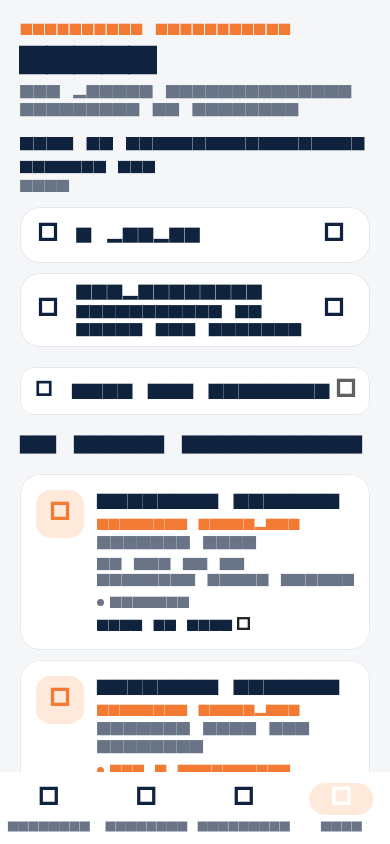
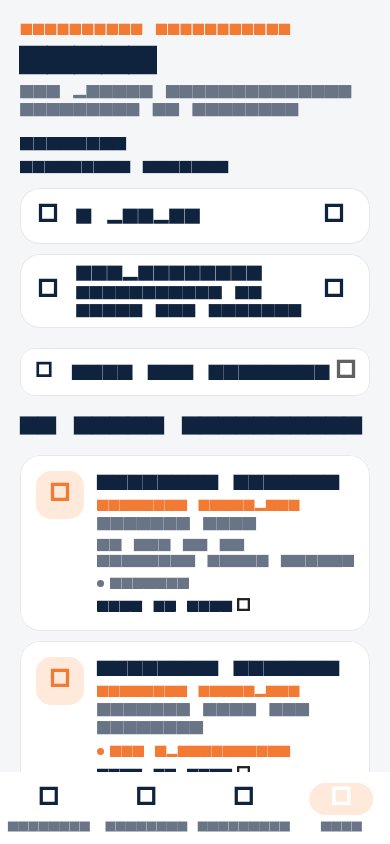
chore(branding): unify MobSante product identity

diff --git a/test/about_screen_test.dart b/test/about_screen_test.dart
@@ -16,7 +16,7 @@ void main() {
     final index = File('web/index.html').readAsStringSync();
     final pubspec = File('pubspec.yaml').readAsStringSync();
 
-    expect(manifest['name'], 'InterfaceRecup33 — MobSanté');
+    expect(manifest['name'], 'MobSanté — Incendies Gironde');
     expect(manifest['short_name'], 'MobSanté');
     expect(index, contains('name="application-name" content="MobSanté"'));
     expect(
@@ -24,7 +24,16 @@ void main() {
       contains('name="apple-mobile-web-app-title" content="MobSanté"'),
     );
     expect(index, isNot(contains('content="Recup33"')));
+    expect(index, contains('<title>MobSanté — Incendies Gironde</title>'));
     expect(pubspec, contains('version: ${AppIdentity.version}'));
+  });
+
+  testWidgets('Flutter application exposes the MobSanté title', (tester) async {
+    await tester.pumpWidget(const FireCoordinationApp());
+
+    final application = tester.widget<MaterialApp>(find.byType(MaterialApp));
+    expect(application.title, AppIdentity.productName);
+    expect(application.title, isNot(AppIdentity.technicalName));
   });
 
   testWidgets('About content is factual, provisional and responsive', (
@@ -52,7 +61,7 @@ void main() {
     expect(find.text('Version ${AppIdentity.version}'), findsOneWidget);
     expect(find.text('Confidentialité'), findsOneWidget);
     expect(find.text('Mentions légales'), findsOneWidget);
-    expect(find.textContaining('MB — VP URPS MK'), findsOneWidget);
+    expect(find.text(AppIdentity.designerCredit), findsOneWidget);
     expect(
       find.textContaining('application officielle de l’URPS'),
       findsNothing,
@@ -75,6 +84,35 @@ void main() {
     expect(credit.style?.fontSize, 11);
     expect(credit.style?.fontWeight, FontWeight.w400);
     expect(tester.takeException(), isNull);
+  });
+
+  test('active identity surfaces contain no obsolete visible branding', () {
+    final activeFiles = [
+      'lib/screens/splash_screen.dart',
+      'lib/app.dart',
+      'lib/screens/places_screen.dart',
+      'lib/screens/about_screen.dart',
+      'web/index.html',
+      'web/manifest.json',
+    ].map((path) => File(path).readAsStringSync()).join('\n');
+
+    for (final obsolete in [
+      'InterfaceRecup33',
+      'Interface Récup',
+      'Interface Recup',
+      'Recup33',
+      'MobSante',
+      'Mob Santé',
+      'Version RC1',
+      'MB — VP URPS MK NA',
+    ]) {
+      expect(activeFiles, isNot(contains(obsolete)));
+    }
+    expect(AppIdentity.technicalName, 'InterfaceRecup33');
+    expect(
+      File('lib/app_entry.dart').readAsStringSync(),
+      contains('class MobSanteEntry'),
+    );
   });
 
   testWidgets('Plus opens About and the back action returns to Plus', (

diff --git a/lib/screens/places_screen.dart b/lib/screens/places_screen.dart
@@ -1,5 +1,6 @@
 import 'package:flutter/material.dart';
 
+import '../config/app_identity.dart';
 import '../models/need.dart';
 import '../repositories/live_data_scope.dart';
 import '../repositories/coordination_repository.dart';
@@ -68,7 +69,7 @@ class _PlacesScreenState extends State<PlacesScreen> {
                 ),
                 const SizedBox(height: 16),
                 const Text(
-                  'URPS MK Nouvelle-Aquitaine',
+                  AppIdentity.productName,
                   style: TextStyle(
                     color: AppColors.navy,
                     fontSize: 13,
@@ -77,17 +78,12 @@ class _PlacesScreenState extends State<PlacesScreen> {
                 ),
                 const SizedBox(height: 6),
                 const Text(
-                  'Version RC1',
+                  AppIdentity.productSubtitle,
                   style: TextStyle(
                     color: AppColors.navy,
                     fontSize: 12,
                     fontWeight: FontWeight.w700,
                   ),
-                ),
-                const SizedBox(height: 2),
-                const Text(
-                  '2026',
-                  style: TextStyle(color: AppColors.textMuted, fontSize: 12),
                 ),
                 const SizedBox(height: 12),
                 Card(

diff --git a/lib/screens/splash_screen.dart b/lib/screens/splash_screen.dart
@@ -1,5 +1,6 @@
 import 'package:flutter/material.dart';
 
+import '../config/app_identity.dart';
 import '../theme/app_theme.dart';
 import '../widgets/brand_mark.dart';
 
@@ -18,7 +19,7 @@ class SplashScreen extends StatelessWidget {
               BrandMark(size: 92, onDarkBackground: true),
               SizedBox(height: 24),
               Text(
-                'InterfaceRecup33',
+                AppIdentity.productName,
                 style: TextStyle(
                   color: Colors.white,
                   fontSize: 28,
@@ -28,7 +29,7 @@ class SplashScreen extends StatelessWidget {
               ),
               SizedBox(height: 7),
               Text(
-                'Incendies Gironde',
+                AppIdentity.productSubtitle,
                 style: TextStyle(
                   color: Colors.white70,
                   fontSize: 15,

diff --git a/lib/screens/about_screen.dart b/lib/screens/about_screen.dart
@@ -26,7 +26,7 @@ class AboutScreen extends StatelessWidget {
             padding: const EdgeInsets.fromLTRB(20, 20, 20, 28),
             children: [
               Text(
-                AppIdentity.shortName,
+                AppIdentity.productName,
                 style: Theme.of(context).textTheme.headlineLarge,
               ),
               const SizedBox(height: 6),
@@ -77,7 +77,7 @@ class AboutScreen extends StatelessWidget {
               ),
               const SizedBox(height: 36),
               const Text(
-                AppIdentity.designCredit,
+                AppIdentity.designerCredit,
                 key: Key('design-credit'),
                 textAlign: TextAlign.center,
                 style: TextStyle(

diff --git a/lib/app.dart b/lib/app.dart
@@ -1,5 +1,6 @@
 import 'package:flutter/material.dart';
 
+import 'config/app_identity.dart';
 import 'repositories/coordination_repository.dart';
 import 'repositories/admin_invitation_repository_scope.dart';
 import 'repositories/mock_coordination_repository.dart';
@@ -22,7 +23,7 @@ class FireCoordinationApp extends StatelessWidget {
       child: AdminInvitationRepositoryScope(
         repository: coordinationRepository.adminInvitationRepository,
         child: MaterialApp(
-          title: 'Interface Récup',
+          title: AppIdentity.productName,
           debugShowCheckedModeBanner: false,
           theme: AppTheme.light,
           home: AppShell(initialIndex: initialTab),

diff --git a/lib/config/app_identity.dart b/lib/config/app_identity.dart
@@ -1,9 +1,13 @@
 abstract final class AppIdentity {
   static const technicalName = 'InterfaceRecup33';
-  static const shortName = 'MobSanté';
+  static const productName = 'MobSanté';
+  static const productSubtitle = 'Incendies Gironde';
+  static const shortName = productName;
   static const version = '1.0.0+1';
 
   // Cette mention décrit la conception de l’outil. Elle ne constitue pas
   // une attribution institutionnelle ni une validation officielle.
-  static const designCredit = 'Conception : MB — VP URPS MK NA';
+  static const designerCredit =
+      'Outil conçu par Marc Bouyssou, '
+      'vice-président de l’URPS MK Nouvelle-Aquitaine';
 }

diff --git a/test/widget_test.dart b/test/widget_test.dart
@@ -197,9 +197,9 @@ void main() {
     await tester.tap(find.text('Plus').last);
     await tester.pumpAndSettle();
 
-    expect(find.text('URPS MK Nouvelle-Aquitaine'), findsOneWidget);
-    expect(find.text('Version RC1'), findsOneWidget);
-    expect(find.text('2026'), findsOneWidget);
+    expect(find.text('MobSanté'), findsOneWidget);
+    expect(find.text('Incendies Gironde'), findsOneWidget);
+    expect(find.text('Version RC1'), findsNothing);
     await tester.tap(find.byKey(const Key('places-territorial-filter')));
     await tester.pumpAndSettle();
     await tester.tap(find.text('Médoc').last);

diff --git a/test/firebase_startup_gate_test.dart b/test/firebase_startup_gate_test.dart
@@ -17,7 +17,9 @@ void main() {
     await tester.pump();
 
     expect(find.byType(SplashScreen), findsOneWidget);
-    expect(find.text('InterfaceRecup33'), findsOneWidget);
+    expect(find.text('MobSanté'), findsOneWidget);
+    expect(find.text('Incendies Gironde'), findsOneWidget);
+    expect(find.text('InterfaceRecup33'), findsNothing);
     expect(find.byType(CircularProgressIndicator), findsNothing);
 
     pending.complete(MockCoordinationRepository.instance);

diff --git a/lib/widgets/brand_mark.dart b/lib/widgets/brand_mark.dart
@@ -32,10 +32,10 @@ class BrandMark extends StatelessWidget {
         : Image.asset(
             assetPath!,
             fit: BoxFit.contain,
-            semanticLabel: 'Logo casque et flamme URPS MK NA',
+            semanticLabel: 'Logo MobSanté',
           );
     return Semantics(
-      label: 'Logo casque et flamme',
+      label: 'Logo MobSanté',
       image: true,
       child: ClipRRect(
         borderRadius: BorderRadius.circular(size * .22),

diff --git a/web/index.html b/web/index.html
@@ -30,7 +30,7 @@
   <!-- Favicon -->
   <link rel="icon" type="image/png" href="favicon.png">
 
-  <title>InterfaceRecup33 — MobSanté</title>
+  <title>MobSanté — Incendies Gironde</title>
   <link rel="manifest" href="manifest.json">
 </head>
 <body>

diff --git a/docs/PRODUCT_VISION.md b/docs/PRODUCT_VISION.md
@@ -1,11 +1,11 @@
-# Vision produit — InterfaceRecup33
+# Vision produit — MobSanté
 
-Nom court visible : **MobSanté**. Nom technique et historique :
+Nom du produit visible : **MobSanté**. Nom technique et historique :
 **InterfaceRecup33**.
 
 ## Objectif
 
-InterfaceRecup33 coordonne la mobilisation de professionnels de santé lors
+MobSanté coordonne la mobilisation de professionnels de santé lors
 d’incendies et, à terme, d’autres crises sanitaires en Gironde.
 
 L’application permet de publier des missions, de visualiser immédiatement les
@@ -13,7 +13,7 @@ besoins par profession et de confirmer la participation des volontaires. Son
 objectif est de faire parvenir rapidement les bonnes personnes, avec le bon
 matériel, sur les lieux qui en ont le plus besoin.
 
-InterfaceRecup33 ne remplace pas la chaîne de commandement ni les outils des
+MobSanté ne remplace pas la chaîne de commandement ni les outils des
 services de secours. Elle apporte une interface commune, ciblée sur la
 mobilisation des professionnels de santé volontaires et la couverture des
 besoins terrain.

diff --git a/assets/branding/README.md b/assets/branding/README.md
@@ -1,6 +1,8 @@
-# Logo HD officiel
+# Identité visuelle MobSanté
 
-Le fichier officiel utilisé par l’application est `logo_hd.png`.
+Le composant `BrandMark` utilise `logo_ui_256.png`, optimisé pour l’interface.
+Le fichier `logo_hd.png` reste la source haute définition et n’est pas embarqué
+dans le build Flutter.
 
 Le visuel doit réunir :
 
@@ -9,5 +11,4 @@ Le visuel doit réunir :
 - la signature URPS ;
 - la mention MK NA.
 
-Le composant `BrandMark` charge ce chemin par défaut. Sa taille reste contrainte
-par le widget.
+La taille d’affichage reste contrainte par le widget.
